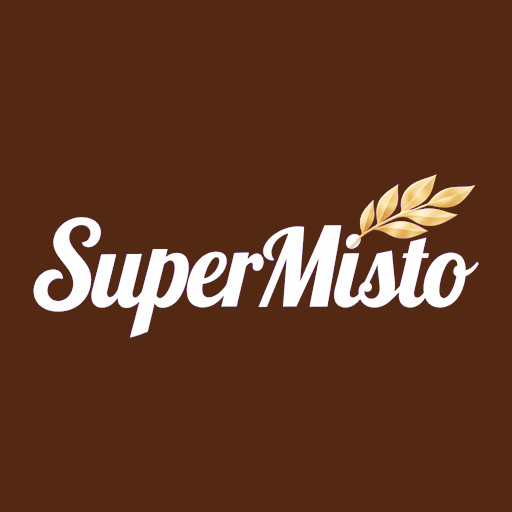
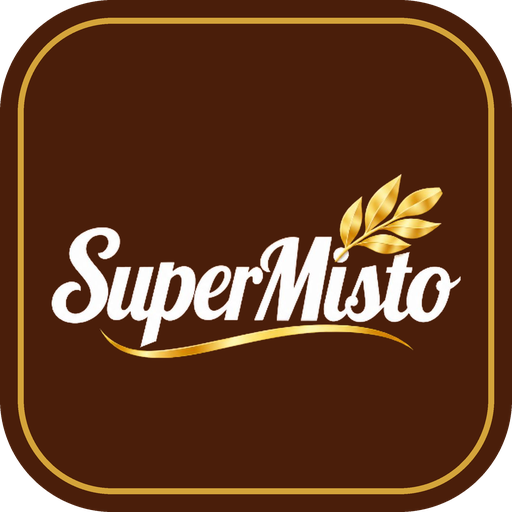
ERP Supermisto: ícone do app redondinho com borda dourada (e versão maskable)
Claude-Session: https://claude.ai/code/session_015ccz1f9mAXaDEEyUCv6yYh

Changed region(s): [[0.0, 0.0, 1.0, 1.0]]

diff --git a/supermisto-precos/public/index.html b/supermisto-precos/public/index.html
@@ -7,9 +7,9 @@
 <meta name="robots" content="noindex">
 <title>ERP Supermisto</title>
 <link rel="stylesheet" href="estilo.css">
-<link rel="manifest" href="manifest.webmanifest">
-<link rel="icon" href="icone-192.png">
-<link rel="apple-touch-icon" href="icone-180.png">
+<link rel="manifest" href="manifest.webmanifest?v=2">
+<link rel="icon" href="icone-192.png?v=2">
+<link rel="apple-touch-icon" href="icone-180.png?v=2">
 </head>
 <body>
 <header class="topo"><button id="menu-btn" class="menu-btn" aria-label="Menu">☰</button><img src="icone-192.png" alt="" width="30" height="30"><b>Supermisto</b><span>Gestão</span><span class="sh-status" id="sh-status"></span><button id="som" class="som" title="Som de pedido novo" aria-label="Som de pedido novo">🔕</button><button id="instalar" class="link" hidden>⬇ Instalar</button><button id="sair" class="link" hidden>Sair</button></header>
